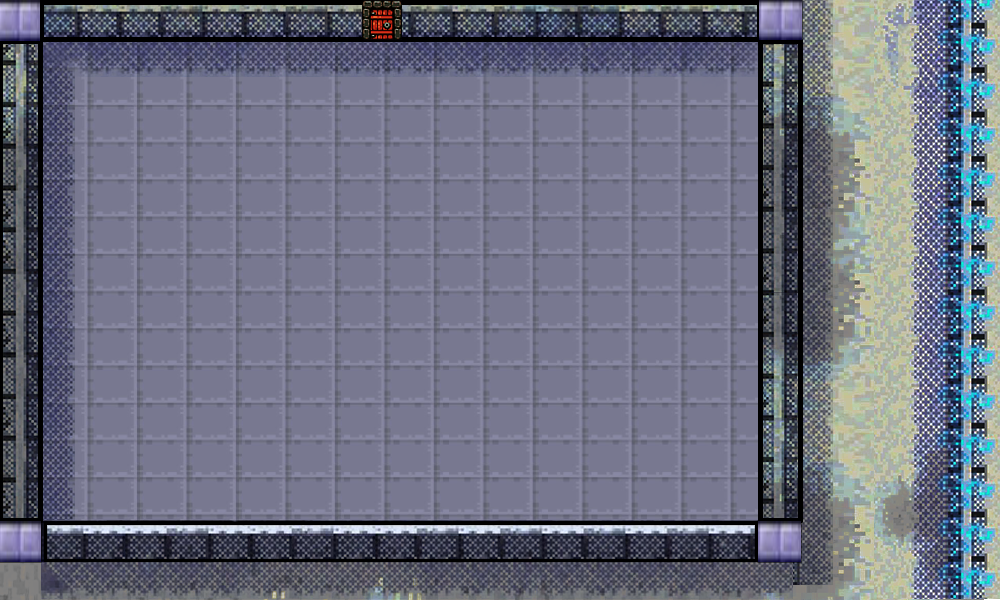
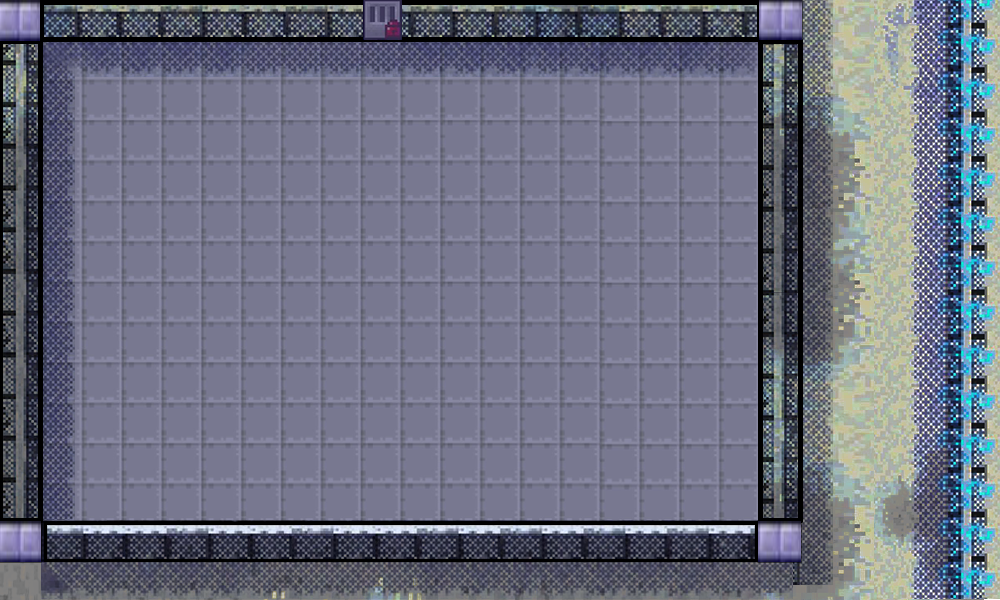
Letzte Änderungen (Tür im letzten Level, CSS-Anpassung, Highscore eintragen auskommentiert, Items Punke korrigiert)

diff --git a/js/main.js b/js/main.js
@@ -20,6 +20,8 @@
     var scoreTime = 0;
     var playingFieldImg;
     var dummyImg;
+    var doorImg;
+
     // Main-Methode, welche beim Laden der HTML-Seite getriggert wird
     function Main() {
         var gameMenue = new Snake.Menue.StartMenue();
@@ -65,25 +67,28 @@ function startGame(levelId) {
         level1Sound.playAndLoad("level_1.mp3");
         playingFieldImg = new createjs.Bitmap("img/spielfeld_level1.png"); //Level 1 Spielfeld erzeugen
         dummyImg = "img/level1_sprite_schwarz.png"; // Dateipfad für Spritesheet Level 1 deklarieren
+        doorImg = 1;
     }
     if (levelId == 2) {
         var level2Sound = new Snake.Sound.Soundregister();
         level2Sound.playAndLoad("level_2.mp3");
         playingFieldImg = new createjs.Bitmap("img/spielfeld_level2.png"); //Level 2 Spielfeld erzeugen
-        dummyImg = "img/level2_sprite_braun.png"; // Dateipfad für Spritesheet Level 1 deklarieren
+        dummyImg = "img/level2_sprite_braun.png"; // Dateipfad für Spritesheet Level 2 deklarieren
+        doorImg = 2;
     }
     if (levelId == 3) {
         var level3Sound = new Snake.Sound.Soundregister();
         level3Sound.playAndLoad("level_3.mp3");
         playingFieldImg = new createjs.Bitmap("img/spielfeld_level3.png"); //Level 3 Spielfeld erzeugen
-        dummyImg = "img/level3_sprite_braun.png"; // Dateipfad für Spritesheet Level 1 deklarieren
+        dummyImg = "img/level3_sprite_braun.png"; // Dateipfad für Spritesheet Level 3 deklarieren
+        doorImg = 3;
 
     }
     //setzt die Geschwindigkeit je nach Id des Levels
     _level.setSpeed(levelId);
     var s = _level.getSpeed();
     var gameController = new Snake.Controlls.GameController();
-    gameController.init(s, playingFieldImg, dummyImg);
+    gameController.init(s, playingFieldImg, dummyImg, doorImg);
 
 }//end startGame
 

diff --git a/js/Views.js b/js/Views.js
@@ -10,6 +10,7 @@ Snake.Views.PrisonSnakeView = function () {
     var knifeIMG = new createjs.Bitmap("img/item_knife.png");
     var keyIMG = new createjs.Bitmap("img/key.png");
     var openDoor = new createjs.Bitmap("img/opendoor.png");
+    var openDoor3 = new createjs.Bitmap("img/opendoor_level3.png");
 
     //initialisiet die Spritesheets
     this.createSprites = function (url) {
@@ -45,10 +46,11 @@ Snake.Views.PrisonSnakeView = function () {
     };//end addPrisonerSprite
     
         //zeichnet die Schlange auf das Grid    
-        this.drawSnake = function (grid, prisonSnake) {
+        this.drawSnake = function (grid, prisonSnake, doorImg) {
 
             var _grid = grid;
             var _prisonSnake = prisonSnake;
+            var _doorImg = doorImg;
             // durchläuft das Array und gleicht ab, welches Feld wie besetzt ist
             for(var i = 0; i< _grid.width; i++){
                 for(var j = 0; j< _grid.heigth; j++){
@@ -93,7 +95,12 @@ Snake.Views.PrisonSnakeView = function () {
                             break;
                         case GATE:
                             var gate = new createjs.Bitmap();
-                            gate = openDoor.clone();
+                            if(_doorImg == 1 || _doorImg == 2){
+                                gate = openDoor.clone();
+                            }
+                            else if(_doorImg == 3){
+                                gate = openDoor3.clone();
+                            }
                             gate.x = i*CELL;
                             gate.y = j*CELL;
                             stage.addChild(gate);

diff --git a/js/gameController.js b/js/gameController.js
@@ -34,13 +34,15 @@ Snake.Controlls = Snake.Controlls || {};
             var isNext = false;
             var _playingfieldImg;
             var _dummyImg;
+            var _doorImg;
 
 
 
             //hier werden alle start-Funktionen vorm Aufruf des gameLoops aufgerufen (von startGame hierhin ausgelagert)
-            this.init = function (speed, playingFieldImg, dummyImg) {
+            this.init = function (speed, playingFieldImg, dummyImg, doorImg) {
                 _playingfieldImg = playingFieldImg;
                 _dummyImg = dummyImg;
+                _doorImg = doorImg;
                 var startPosX = 3;
                 var startPosY = 3;
                 _grid.init(WALL, EMPTY, GRIDWIDTH, GRIDHEIGHT);
@@ -129,7 +131,7 @@ Snake.Controlls = Snake.Controlls || {};
 
                 _scoreView.drawScore(_score, _playingfieldImg);
 
-                _prisonSnakeView.drawSnake(_grid, _prisonSnake);
+                _prisonSnakeView.drawSnake(_grid, _prisonSnake, _doorImg);
                 // nimmt Tastatureingabe auf
                 document.onkeydown = keyInput;
                 stage.update();

diff --git a/js/Models.js b/js/Models.js
@@ -70,12 +70,12 @@ Snake.Models.Score = function() {
     this.setScore = function(_grid, nx, ny){
         
 
-        if(_grid.get(nx, ny) == TUNA){
+        if(_grid.get(nx, ny).ITEM == TUNA){
             var tunaSound = new Snake.Sound.Soundregister();
             tunaSound.playAndLoad("good_item.mp3");
             this.set(30);
         }
-        else if(_grid.get(nx, ny) == CIGARETTES){
+        else if(_grid.get(nx, ny).ITEM == CIGARETTES){
             var cigaSound = new Snake.Sound.Soundregister();
             cigaSound.playAndLoad("good_item.mp3");
             this.set(20);
@@ -85,7 +85,7 @@ Snake.Models.Score = function() {
             prisonerSound.playAndLoad("good_item.mp3");
             this.set(10);
         }
-        else if(_grid.get(nx,ny) == KNIFE) {
+        else if(_grid.get(nx,ny).ITEM == KNIFE) {
             var knifeSound = new Snake.Sound.Soundregister();
             knifeSound.playAndLoad("bad_item.wav");
             this.set(-50);

diff --git a/index.html b/index.html
@@ -19,7 +19,7 @@
     <script type="text/javascript" src="js/Levels.js"></script>
     <script type="text/javascript" src="js/Sound.js"></script>
 
-    <a href="#" onclick="javascript:addHighScoreToForm();">Highscore Eintragen</a>
+    <!-- <a href="#" onclick="javascript:addHighScoreToForm();">Highscore Eintragen</a> -->
 
     <div id="highscore-container">
         <h1>Highscore</h1>
@@ -40,10 +40,8 @@
     <div id="footer">
 
         <hr>
-        <p>HS Düsseldorf - WS16/17 - Informatikprojekt 2 "Snake" - Gruppe A</p>
-
-        <p>
-            <a href="#" target="popup"
+        <p>HS Düsseldorf - WS16/17 - Informatikprojekt 2 "Snake" - Gruppe A
+            <a id="entwickler" href="#" target="popup"
               onclick="window.open('credits.html','popup','width=300,height=300, left=400, top=120, toolbar=no, scrollbars=0, menubar=no'); return false;">
               Entwickler-Team
             </a>

diff --git a/css/index.css b/css/index.css
@@ -102,6 +102,10 @@ a:hover {
     color: rgb(222, 237, 50);
 }
 
+#entwickler{
+    float: right;
+}
+
 #credits{
     text-align: center;
 }
